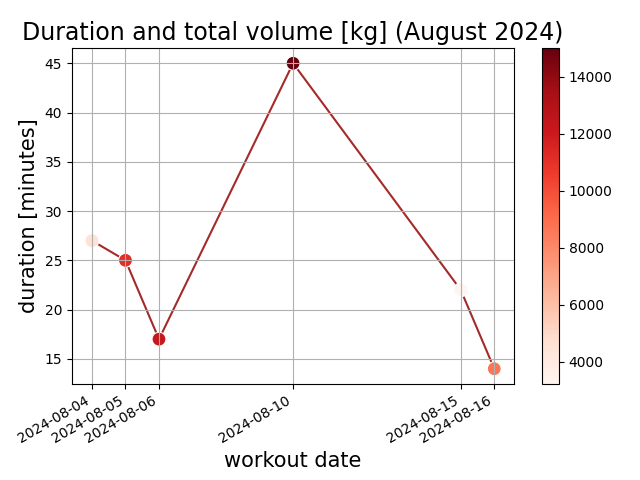
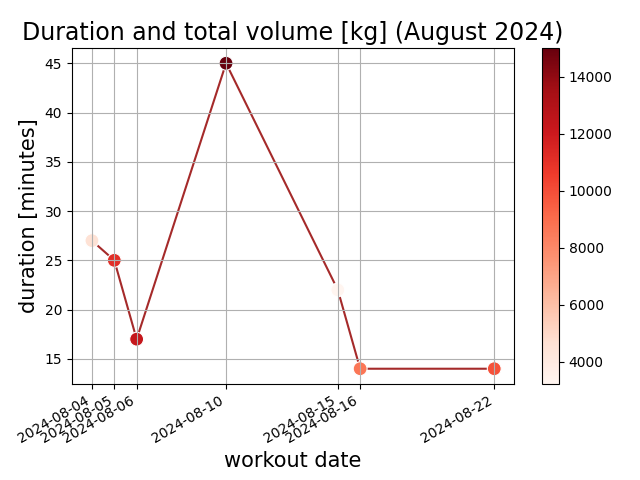
chore: add todays workout. generate test coverage reports

diff --git a/.github/CONTRIBUTING.md b/.github/CONTRIBUTING.md
@@ -1,6 +1,6 @@
-# Welcome to Fitness-Tracker contributing guide <!-- omit in toc -->
+# Welcome to fitness-tracker contributing guide <!-- omit in toc -->
 
-Thank you for investing your time in contributing to our project! Any contribution you make will be reflected on [github.com/TheNewThinkTank/Fitness-Tracker](https://github.com/TheNewThinkTank/Fitness-Tracker) :sparkles:.
+Thank you for investing your time in contributing to our project! Any contribution you make will be reflected on [github.com/TheNewThinkTank/fitness-tracker](https://github.com/TheNewThinkTank/fitness-tracker) :sparkles:.
 
 Read our [Code of Conduct](./CODE_OF_CONDUCT.md) to keep our community approachable and respectable.
 
